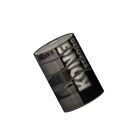
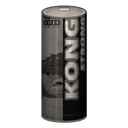
Empties are intact grey cans, not crushed, so the deposit machine can scan them

diff --git a/src/Texts.cs b/src/Texts.cs
@@ -71,7 +71,7 @@ namespace KongStrong
                 { "item_kong_skyrcup_desc", "Thick, creamy and full of protein. Proper food, not a drink." },
 
                 { "item_kong_empty", "Kong empties" },
-                { "item_kong_empty_desc", "Empty can or bottle. Build something with it or bring it to a deposit machine." },
+                { "item_kong_empty_desc", "Empty can or bottle, undamaged so the barcode still scans. Build something with it or bring it to a deposit machine." },
 
                 { "se_kong_stop", "The energy rush wears off." },
                 { "se_kong_crash", "Sugar Crash" },
@@ -157,7 +157,7 @@ namespace KongStrong
                 { "item_kong_skyrcup_desc", "Dick, cremig und voller Protein. Richtiges Essen, kein Drink." },
 
                 { "item_kong_empty", "Kong-Leergut" },
-                { "item_kong_empty_desc", "Leere Dose oder Flasche. Daraus lässt sich etwas bauen, oder du bringst sie zum Pfandautomaten." },
+                { "item_kong_empty_desc", "Leere Dose oder Flasche, unbeschädigt, damit der Pfand noch gescannt wird. Daraus lässt sich etwas bauen, oder du bringst sie zum Pfandautomaten." },
 
                 { "se_kong_stop", "Der Energiekick lässt nach." },
                 { "se_kong_crash", "Zuckercrash" },

diff --git a/tools/make_icons.py b/tools/make_icons.py
@@ -270,15 +270,8 @@ def grey(layer):
 
 
 def draw_empty():
-    """Crushed, empty grey can: the Leergut."""
-    can = grey(draw_can("blue", "SUGAR\nFREE"))
-    can = can.resize((W, int(H * 0.62)), Image.LANCZOS)
-    out = new_layer()
-    out.alpha_composite(can, (0, (H - can.height) // 2 + 40))
-    d = ImageDraw.Draw(out)
-    for y in (215, 268, 318):                                               # dents
-        d.line([(170, y), (240, y + 10), (300, y - 6), (344, y + 6)], fill=(70, 70, 76, 255), width=7)
-    return out.rotate(28, resample=Image.BICUBIC, center=(256, 256))
+    """Intact empty can in grey: the Leergut. Not crushed, or the deposit machine could not scan it."""
+    return grey(draw_can("blue", "SUGAR\nFREE"))
 
 
 def draw_cup():

diff --git a/tools/make_textures.py b/tools/make_textures.py
@@ -90,12 +90,8 @@ def tex_can(palette, label):
 
 
 def tex_empty():
-    img = ImageOps.grayscale(tex_can("blue", "SUGAR\nFREE").convert("RGB")).convert("RGBA")
-    d = ImageDraw.Draw(img)
-    for i in range(9):                                   # creases of the crushed can
-        x = 30 + i * 56
-        d.line([(x, 70), (x + 30, 190), (x - 10, 300)], fill=(70, 70, 76, 255), width=6)
-    return img
+    """Grey version of the can: intact, so the deposit machine can scan the barcode."""
+    return ImageOps.grayscale(tex_can("blue", "SUGAR\nFREE").convert("RGB")).convert("RGBA")
 
 
 # ---------------------------------------------------------------- Skyr bottle: 512 x 512

diff --git a/src/KongStrongPlugin.cs b/src/KongStrongPlugin.cs
@@ -570,7 +570,7 @@ namespace KongStrong
             shared.m_itemType = ItemDrop.ItemData.ItemType.Material;
             shared.m_consumeStatusEffect = null;
             shared.m_food = shared.m_foodStamina = shared.m_foodEitr = 0f;
-            Dress(item, "crushed", "tex_empty", 0.5f, 0.45f, null, config.Icon);
+            Dress(item, "can", "tex_empty", 0.6f, 0.5f, null, config.Icon);
             ItemManager.Instance.AddItem(item);
         }
 

diff --git a/README.md b/README.md
@@ -28,7 +28,7 @@ Es wirkt immer nur ein Kong-Drink auf einmal, und während des Zuckercrashs kann
 - **Kraft-Animation:** Beim Trinken hebst du die Arme wie bei einer Kraft der Verlassenen, samt Eikthyr-Leuchten ohne dessen Ton. Deine echte Kraft und ihre Abklingzeit bleiben unberührt.
 - **Koffein-Toleranz:** Mehrere Drinks innerhalb von 15 Minuten wirken schwächer (der zweite zu 50 %, jeder weitere zu 25 %). Ab dem dritten gibt es 2 Minuten **Herzrasen** mit langsamerer Regeneration.
 - **Zu wach zum Schlafen:** Mit aktivem Kong-Buff verweigert dein Bett den Schlaf.
-- **Leergut:** Dosen und Flaschen hinterlassen leeres Leergut. Daraus baust du die Dosenpyramide, oder du tauschst es am Pfandautomaten gegen Münzen.
+- **Leergut:** Dosen und Flaschen hinterlassen unbeschädigtes Leergut (nicht zerdrückt, sonst scannt der Pfandautomat es nicht). Daraus baust du die Dosenpyramide, oder du tauschst es am Pfandautomaten gegen Münzen.
 - **Eigene Modelle:** Dosen, Flaschen, Kanister, Becher und Fass sind eigene Modelle, in der Config mit `CustomModels = false` auf die Met-Flaschen des Spiels umschaltbar.
 - **„D K!“-Ruf:** Nach den Kong-Strong-Dosen kann ein eigener Ruf kommen (`[Sound] Shout`, standardmäßig an). Die Mod liefert **keinen** Ton mit: Lege eine eigene WAV-Datei (16 Bit PCM) unter `BepInEx/config/KongStrong/shout.wav` ab, sie bleibt auf deinem Rechner. Ohne Datei bleibt es still. `ShoutBoost` macht den Ton lauter.
 

diff --git a/CHANGELOG.md b/CHANGELOG.md
@@ -3,6 +3,7 @@
 ## 1.2.1
 
 - Pfandautomat deutlich größer. Die Textur des Automaten wiederholte sich senkrecht, weil das kopierte Material seine Kachelung mitbrachte; sie wird jetzt auf 1:1 gesetzt (betrifft alle Baustücke).
+- Das Leergut ist jetzt eine unbeschädigte graue Dose in voller Größe statt einer zerdrückten.
 - Der „D K!“-Ruf ist jetzt standardmäßig an und lauter (Lautstärke 1, Anhebung auf volle Aussteuerung plus `ShoutBoost`). Die Mod liefert keinen Ton mehr mit, der Ruf spielt nur mit einer eigenen `shout.wav`. Werte auf dem 1.2.0-Standard wechseln beim Start automatisch.
 
 ## 1.2.0
